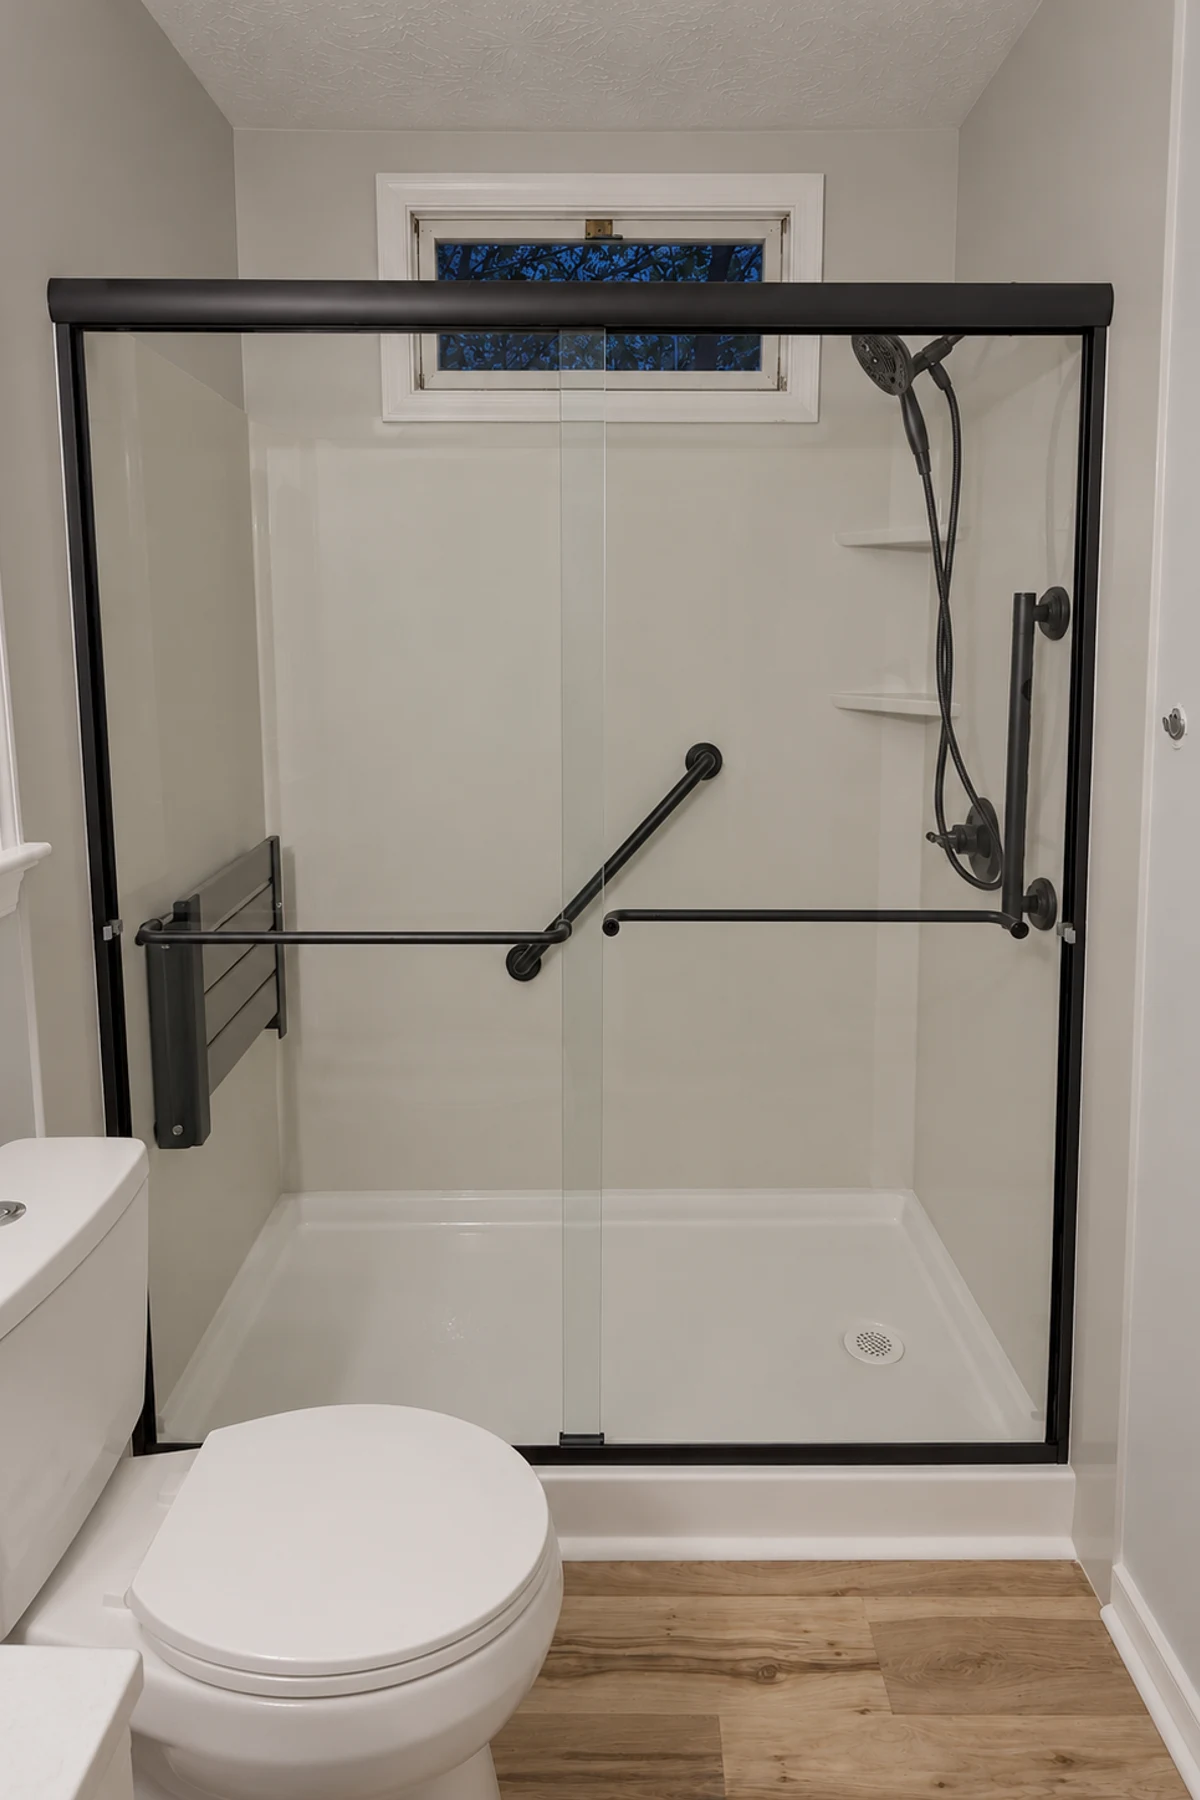
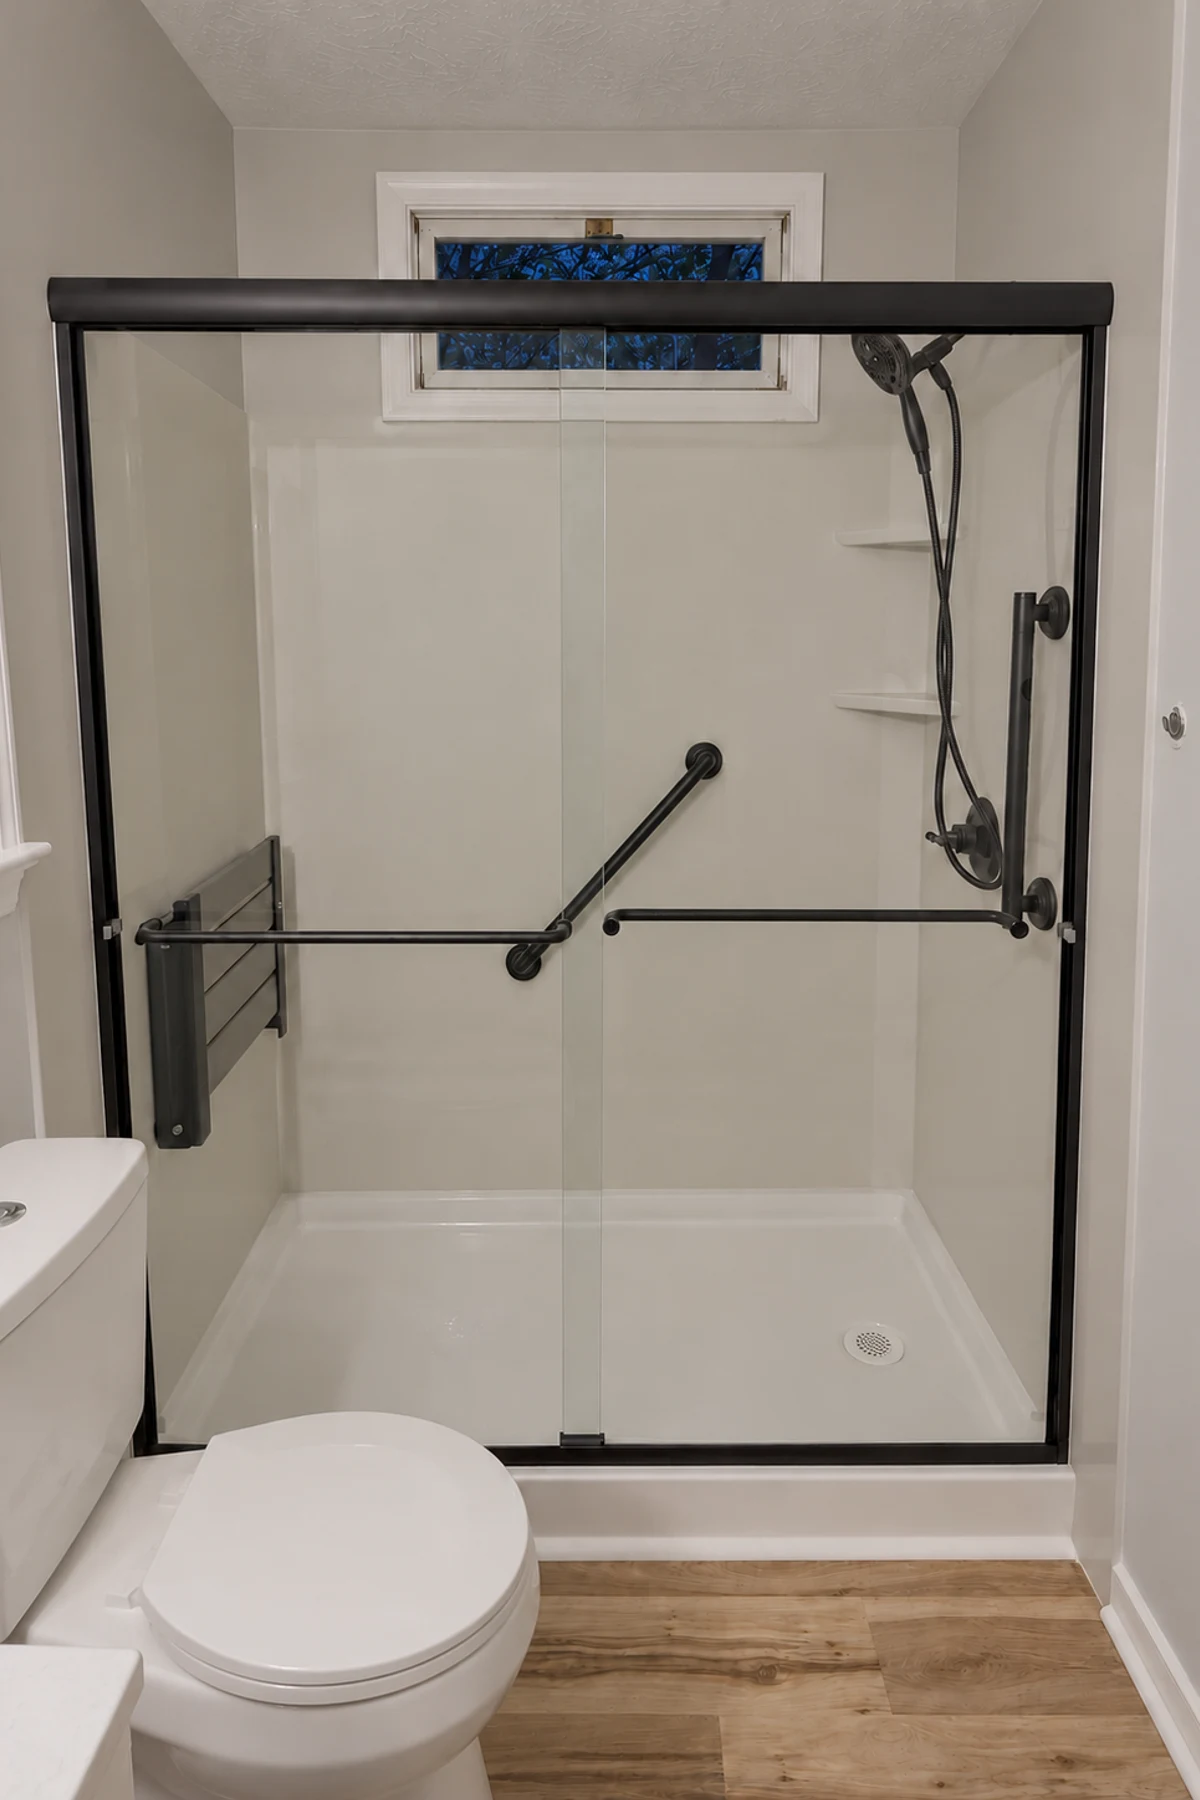
Refine project comparison framing

diff --git a/index.html b/index.html
@@ -23,7 +23,7 @@
     <meta name="twitter:image" content="https://bluerhinobath.com/assets/social-share.png">
     <link rel="image_src" href="https://bluerhinobath.com/assets/social-share.png">
     <link rel="icon" href="assets/blue-rhino-icon-transparent.png" type="image/png">
-    <link rel="stylesheet" href="styles.css?v=20261001-1">
+    <link rel="stylesheet" href="styles.css?v=20261028-1">
     <script type="application/ld+json">
       {
         "@context": "https://schema.org",
@@ -293,6 +293,6 @@
       </span>
     </footer>
 
-    <script src="script.js"></script>
+    <script src="script.js?v=20261028-1"></script>
   </body>
 </html>

diff --git a/styles.css b/styles.css
@@ -625,9 +625,8 @@ h3 {
 .before-after {
   position: relative;
   overflow: hidden;
-  width: min(100%, 920px);
+  width: min(100%, 760px);
   aspect-ratio: 2 / 3;
-  max-height: 78vh;
   margin-inline: auto;
   border: 1px solid rgba(10, 26, 43, 0.2);
   border-radius: 8px;
@@ -1639,7 +1638,6 @@ textarea:focus {
 
   .before-after {
     width: 100%;
-    max-height: none;
   }
 
   figcaption {
